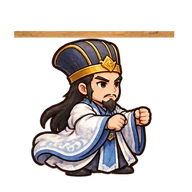
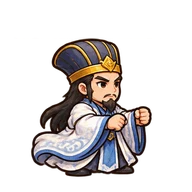
v30 test: 공격 포즈 10명(선별), 제갈량 대기 그림 흔적 제거
Claude-Session: https://claude.ai/code/session_01BVqfE58HwXfE8DJuxumd3g

Changed region(s): [[0.0625, 0.1562, 0.9375, 0.2188]]

diff --git a/v30/sw.js b/v30/sw.js
@@ -1,5 +1,5 @@
 // Offline support: online -> newest files first, offline -> saved copy.
-const CACHE='cheonhav30sd-14';
+const CACHE='cheonhav30sd-15';
 const CORE=['./','./index.html','./zh.html','./legion.html','./legion-zh.html','./legion_core.js','./legion_ui.js','./legion_orders.js','./manifest.webmanifest','./manifest-zh.webmanifest','./icon-192.png','./icon-512.png','./apple-touch-icon.png','./art/portraits.webp','./art/legion/bg_castle.webp','./art/legion/bg_forest.webp','./art/legion/bg_gate.webp','./art/legion/bg_mountain.webp','./art/legion/bg_plain.webp','./art/legion/bg_river.webp','./art/legion/brush_stroke.webp','./art/legion/flag_0.webp','./art/legion/flag_1.webp','./art/legion/flag_2.webp','./art/legion/flag_3.webp','./art/legion/fx_eastwind.webp','./art/legion/fx_firewall.webp','./art/legion/fx_heal.webp','./art/legion/fx_qinglong.webp','./art/legion/fx_wushuang.webp','./art/legion/reserve_ally.webp','./art/legion/reserve_foe.webp','./art/legion/seal.webp','./art/legion/sol_arc_ally.webp','./art/legion/sol_arc_foe.webp','./art/legion/sol_cav_ally.webp','./art/legion/sol_cav_foe.webp','./art/legion/sol_inf_ally.webp','./art/legion/sol_inf_foe.webp','./art/legion/sol_str_ally.webp','./art/legion/sol_str_foe.webp','./art/tiles_v20.webp','./art/horizon_v20.webp','./art/camp_side_v20.webp','./art/mobs.webp','./art/theme_day.webp','./art/theme_dusk.webp','./art/theme_night.webp','./art/theme_siege.webp','./art/theme_winter.webp'];
 self.addEventListener('install',e=>{e.waitUntil(caches.open(CACHE).then(c=>c.addAll(CORE.map(u=>new Request(u,{cache:'reload'})))).then(()=>self.skipWaiting()));});
 self.addEventListener('activate',e=>{e.waitUntil(caches.keys().then(ks=>Promise.all(ks.filter(k=>k.startsWith('cheonhav30sd-')&&k!==CACHE).map(k=>caches.delete(k)))).then(()=>self.clients.claim()));});

diff --git a/v30/sd/sdv.js b/v30/sd/sdv.js
@@ -37,7 +37,7 @@ const GEN2={ugeum:0,akjin:0,join:0,gwanpyeong:0,seoseo:0,madae:0,jeongbo:0,hwang
 const ALIAS={m_gwanu:'gwanu',m_joun:'joun',m_jegal:'jegal',m_jojo:'jojo',m_sonchaek:'sonchaek',m_yeopo:'yeopo',m_jangbi:'jangbi',m_samaui:'samaui',m_juyu:'juyu',m_wonso:'wonso'};
 const IMG={};let ready=false;
 /* attack poses (weapon drawn in the picture): add ids here when sd_<id>_atk.webp files arrive */
-const ATK=[];
+const ATK=['gwanu','joun','macho','samaui','sonchaek','yeopo','jojo','yukson','choseon','dongtak'];
 /* soldiers hold their weapon in the drawing: body-only motion */
 const SOL={w_sp:'thrust',s_sp:'thrust',o_sp:'thrust',q_sp:'thrust',w_ar:'shoot',s_ar:'shoot',o_ar:'shoot',q_ar:'shoot'};
 const MYTH=['m_gwanu','m_jegal','m_jojo','m_sonchaek','m_yeopo','m_joun','m_jangbi','m_samaui','m_juyu','m_wonso'],FACFX=['fx_wei','fx_shu','fx_wu','fx_qun'];

diff --git a/v30/V30_CHANGES.md b/v30/V30_CHANGES.md
@@ -57,3 +57,8 @@
 ## 12차
 - 관문 돌파: 스킬 돌진 시 속도선·흙먼지, 큰 타격 순간 화면 확대(0.38초)
 - 공격 포즈 그림 지원(sd_<id>_atk.webp): 들어오면 공격 순간 몸 그림을 포즈 그림으로 교체(무기 포함 그림이라 무기 회전은 생략). sd/sdv.js의 ATK 목록에 id 추가로 활성화
+
+## 13차 (공격 포즈 1차 · 테스트용)
+- 공격 포즈 10명 적용(관우·조운·마초·사마의·손책·여포·조조·육손·초선·동탁): 대기 그림과 얼굴·복장이 일치하는 것만 선별, 가장자리에 섞인 다른 캐릭터 조각 자동 제거
+- 보류 10명(재제작 필요): 주유·황충·장료·감녕·허저·태사자·원소(얼굴·복장 불일치), 장비(색 불일치), 유비(부분 불일치), 제갈량(모자 색 불일치)
+- 제갈량 대기 그림 머리 위 가로줄 흔적 제거
